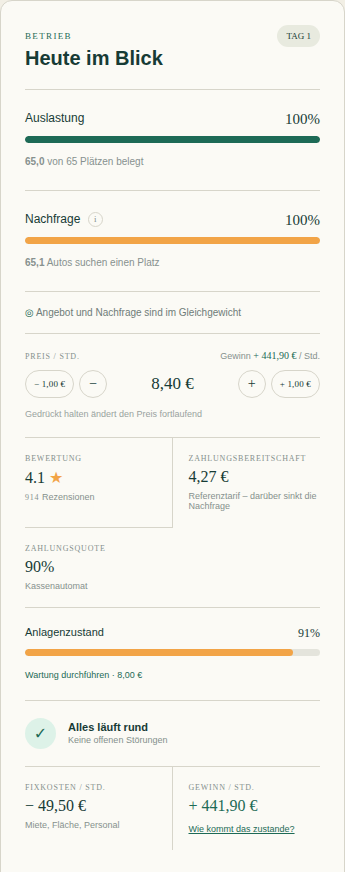
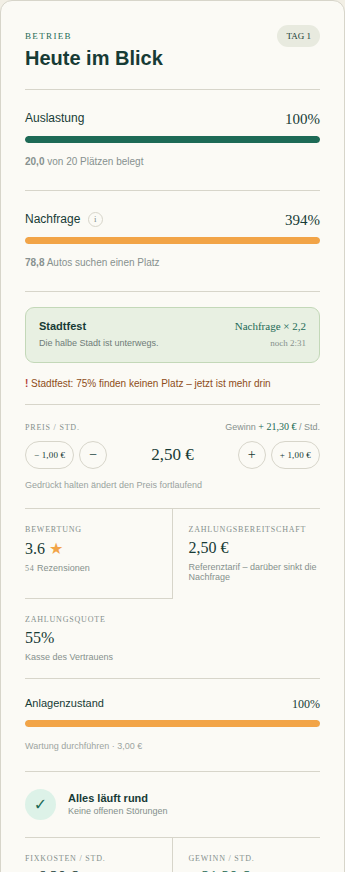
feat: pace the upgrades to the real clock and give the price something to do
Two things made the game dull.

The one-off prices still came from the time when a game hour took thirty
seconds. Against an honest clock they were four to twelve times too
expensive: a patient player bought two upgrades in four hours. They are
now calibrated against the lot's actual takings of about 32 euros an
hour – the first expansion costs two euros, a move twenty-five. Measured
with a normal buying strategy: eleven purchases in the first hour
instead of two, and cheap steps are priced in ten cent increments so the
curve does not flatten out at the bottom.

The second reason was that nothing ever changed on its own. Since the
time of day is gone, the lot sat at its market price forever with no
reason to touch anything. Now events pass through: a town festival or
steady rain lifts the demand for a few minutes, roadworks or a new
competitor next door cut it. Each is announced with its effect and a
countdown, so the answer is a deliberate price change instead of a
surprise – raising the tariff by 1,50 euros during rain took the profit
from 21 to 38 euros an hour in the browser.

Events survive a reload and keep ticking during a short absence rather
than vanishing.

Claude-Session: https://claude.ai/code/session_01AV2HkyX3fmLVfAK2ZyCouS

diff --git a/src/game.ts b/src/game.ts
@@ -16,7 +16,19 @@ export interface GameState {
   condition: number;
   activeIncident: Incident | null;
   incidentCooldown: number;
+  activeEvent: DemandEvent | null;
+  eventCooldown: number;
   lastSavedAt: number;
+}
+
+/** A passing reason for more or fewer guests – announced and time boxed. */
+export interface DemandEvent {
+  id: string;
+  title: string;
+  description: string;
+  /** Multiplier on the demand while it lasts. */
+  factor: number;
+  secondsLeft: number;
 }
 
 export interface Incident {
@@ -64,13 +76,13 @@ export const LOCATIONS = [
 ];
 
 export const upgrades: Upgrade[] = [
-  { id: 'location', name: 'Standort verlegen', description: 'Ein besserer Standort bringt deutlich mehr Basis-Nachfrage – und mehr Miete', icon: '⚑', category: 'Standort', maxLevel: 3, baseCost: 120, costMultiplier: 8, stages: LOCATIONS.map((location) => location.name) },
-  { id: 'spaces', name: 'Stellplätze bauen', description: '+5 Stellplätze – mehr Angebot für die Nachfrage', icon: 'P', category: 'Kapazität', maxLevel: null, baseCost: 10, costMultiplier: 1.12 },
-  { id: 'lighting', name: 'LED-Beleuchtung', description: 'Sicheres Gefühl bei Nacht – mehr Nachfrage', icon: '✦', category: 'Nachfrage', maxLevel: 3, baseCost: 30, costMultiplier: 2.2 },
-  { id: 'cleaning', name: 'Reinigungsdienst', description: 'Saubere Flächen und Toiletten – mehr Nachfrage', icon: '◆', category: 'Nachfrage', maxLevel: 3, baseCost: 45, costMultiplier: 2.2 },
-  { id: 'advertising', name: 'Werbung', description: 'Mehr Menschen am Standort kennen deinen Parkplatz', icon: '▲', category: 'Nachfrage', maxLevel: 5, baseCost: 40, costMultiplier: 1.9 },
-  { id: 'payment', name: 'Kassensystem', description: 'Weniger Gäste fahren ohne zu zahlen davon', icon: '€', category: 'Erlös', maxLevel: 3, baseCost: 55, costMultiplier: 2.8, stages: PAYMENT_STAGES.map((stage) => stage.name) },
-  { id: 'shelter', name: 'Überdachung', description: 'Trockene Autos – Gäste akzeptieren höhere Tarife', icon: '⌂', category: 'Erlös', maxLevel: 3, baseCost: 90, costMultiplier: 2.5 },
+  { id: 'location', name: 'Standort verlegen', description: 'Ein besserer Standort bringt deutlich mehr Basis-Nachfrage – und mehr Miete', icon: '⚑', category: 'Standort', maxLevel: 3, baseCost: 25, costMultiplier: 9, stages: LOCATIONS.map((location) => location.name) },
+  { id: 'spaces', name: 'Stellplätze bauen', description: '+5 Stellplätze – mehr Angebot für die Nachfrage', icon: 'P', category: 'Kapazität', maxLevel: null, baseCost: 2, costMultiplier: 1.12 },
+  { id: 'lighting', name: 'LED-Beleuchtung', description: 'Sicheres Gefühl bei Nacht – mehr Nachfrage', icon: '✦', category: 'Nachfrage', maxLevel: 3, baseCost: 6, costMultiplier: 2.2 },
+  { id: 'cleaning', name: 'Reinigungsdienst', description: 'Saubere Flächen und Toiletten – mehr Nachfrage', icon: '◆', category: 'Nachfrage', maxLevel: 3, baseCost: 9, costMultiplier: 2.2 },
+  { id: 'advertising', name: 'Werbung', description: 'Mehr Menschen am Standort kennen deinen Parkplatz', icon: '▲', category: 'Nachfrage', maxLevel: 5, baseCost: 8, costMultiplier: 1.9 },
+  { id: 'payment', name: 'Kassensystem', description: 'Weniger Gäste fahren ohne zu zahlen davon', icon: '€', category: 'Erlös', maxLevel: 3, baseCost: 12, costMultiplier: 2.8, stages: PAYMENT_STAGES.map((stage) => stage.name) },
+  { id: 'shelter', name: 'Überdachung', description: 'Trockene Autos – Gäste akzeptieren höhere Tarife', icon: '⌂', category: 'Erlös', maxLevel: 3, baseCost: 18, costMultiplier: 2.5 },
 ];
 
 export const INITIAL_STATE: GameState = {
@@ -86,6 +98,8 @@ export const INITIAL_STATE: GameState = {
   condition: 100,
   activeIncident: null,
   incidentCooldown: 80,
+  activeEvent: null,
+  eventCooldown: 45,
   lastSavedAt: Date.now(),
 };
 
@@ -121,6 +135,7 @@ const clamp = (value: number, min: number, max: number): number => Math.min(max,
 
 export const upgradeCost = (upgrade: Upgrade, level: number): number => {
   const raw = upgrade.baseCost * upgrade.costMultiplier ** level;
+  if (raw < 20) return Math.round(raw * 10) / 10;
   return raw < 100 ? Math.round(raw) : Math.round(raw / 10) * 10;
 };
 
@@ -151,7 +166,8 @@ export const reputationFactor = (state: GameState): number => Math.max(0.25, 0.6
  */
 export const attraction = (state: GameState): number => {
   const incidentPenalty = state.activeIncident && state.activeIncident.id !== 'payment' ? 0.8 : 1;
-  return currentLocation(state).baseDemand * equipmentFactor(state) * incidentPenalty * reputationFactor(state);
+  return currentLocation(state).baseDemand * equipmentFactor(state) * incidentPenalty
+    * reputationFactor(state) * (state.activeEvent?.factor ?? 1);
 };
 
 /** Even a free lot only draws the guests that pass by – the catchment limit. */
@@ -309,10 +325,43 @@ export const earningPower = (state: GameState): number => {
 export const repairPrice = (state: GameState, minutes: number): number =>
   Math.max(3, Math.round(earningPower(state) * minutes / 60));
 
+/**
+ * Things that happen around the lot and move the demand for a few minutes.
+ * They are announced with their effect and a countdown, so the answer is a
+ * deliberate price change rather than a surprise.
+ */
+const EVENT_KINDS: { id: string; title: string; description: string; factor: number; seconds: number; fromLocation?: number }[] = [
+  { id: 'festival', title: 'Stadtfest', description: 'Die halbe Stadt ist unterwegs.', factor: 2.2, seconds: 180 },
+  { id: 'rain', title: 'Dauerregen', description: 'Wer sonst läuft, fährt heute.', factor: 1.4, seconds: 240 },
+  { id: 'match', title: 'Heimspiel im Stadion', description: 'Alle suchen gleichzeitig einen Platz.', factor: 1.9, seconds: 150 },
+  { id: 'holiday', title: 'Ferienbeginn', description: 'Reisende stellen ihr Auto für Tage ab.', factor: 1.7, seconds: 240, fromLocation: 2 },
+  { id: 'roadworks', title: 'Baustelle vor der Einfahrt', description: 'Die Zufahrt ist halb gesperrt.', factor: 0.55, seconds: 180 },
+  { id: 'competition', title: 'Neuer Parkplatz nebenan', description: 'Die Konkurrenz nimmt dir Gäste ab.', factor: 0.7, seconds: 210 },
+];
+
+/** Events that can happen at the current location. */
+export const possibleEvents = (state: GameState): string[] =>
+  EVENT_KINDS.filter((kind) => (kind.fromLocation ?? 0) <= state.levels.location).map((kind) => kind.id);
+
 /** The one discrete event per real-time second: something breaks, or it doesn't. */
 export const simulateTick = (state: GameState, random = Math.random): GameState => {
   const next: GameState = structuredClone(state);
   next.incidentCooldown -= 1;
+
+  if (next.activeEvent) {
+    next.activeEvent.secondsLeft -= 1;
+    if (next.activeEvent.secondsLeft <= 0) {
+      next.activeEvent = null;
+      next.eventCooldown = 90 + Math.floor(random() * 150);
+    }
+  } else {
+    next.eventCooldown -= 1;
+    if (next.eventCooldown <= 0) {
+      const candidates = EVENT_KINDS.filter((kind) => (kind.fromLocation ?? 0) <= next.levels.location);
+      const kind = candidates[Math.floor(random() * candidates.length)] ?? candidates[0];
+      next.activeEvent = { id: kind.id, title: kind.title, description: kind.description, factor: kind.factor, secondsLeft: kind.seconds };
+    }
+  }
 
   if (!next.activeIncident && next.incidentCooldown <= 0 && next.condition < 92 && random() < 0.018) {
     const candidates = INCIDENT_KINDS.filter((kind) => !kind.requires || next.levels[kind.requires] > 0);
@@ -408,6 +457,15 @@ export const simulateAway = (state: GameState, realMinutes: number): AwayReport 
   const earned = revenue - costs;
 
   const next = structuredClone(state);
+  // A running event keeps ticking while you are gone instead of vanishing on
+  // every reload; nobody was there to react to it either way.
+  if (next.activeEvent) {
+    next.activeEvent.secondsLeft -= minutes * 60;
+    if (next.activeEvent.secondsLeft <= 0) {
+      next.activeEvent = null;
+      next.eventCooldown = 45;
+    }
+  }
   next.cash = Math.max(0, next.cash + earned);
   next.lifetimeRevenue += revenue;
   next.carsServed += filled * next.spaces * gameHours / AVERAGE_STAY_HOURS;

diff --git a/src/main.ts b/src/main.ts
@@ -81,9 +81,14 @@ const goal = (game: GameState): { title: string; progress: number; hint: string 
   };
 };
 
+const countdown = (seconds: number): string =>
+  `${Math.floor(Math.max(0, seconds) / 60)}:${String(Math.max(0, Math.round(seconds % 60))).padStart(2, '0')}`;
+
 /** Tells the player whether supply or demand is the current bottleneck. */
 const marketHint = (game: GameState): string => {
   const turnedAway = turnedAwayShare(game);
+  if (game.activeEvent && game.activeEvent.factor >= 1 && turnedAway > 0.1) return `${game.activeEvent.title}: ${percent(turnedAway * 100)} finden keinen Platz – jetzt ist mehr drin`;
+  if (game.activeEvent && game.activeEvent.factor < 1 && occupancy(game) < 0.8) return `${game.activeEvent.title}: mit einem günstigeren Tarif bleibt der Platz voll`;
   if (turnedAway > 0.15) return `${percent(turnedAway * 100)} der Gäste finden keinen Platz – du kannst mehr verlangen oder ausbauen`;
   if (turnedAway > 0.02) return `Ausgebucht – ${percent(turnedAway * 100)} finden keinen Platz und bewerten schlechter`;
   if (occupancy(game) < 0.65) return 'Viele Plätze bleiben leer – ein günstigerer Tarif holt mehr Gäste';
@@ -161,6 +166,7 @@ const demandModal = (game: GameState): string => {
         <tr><td>Basis-Nachfrage <em>(${currentLocation(game).name})</em></td><td>${cars(currentLocation(game).baseDemand)} Autos</td></tr>
         <tr><td>Bewertung <em>(${game.reputation.toFixed(1)} ★)</em></td><td>× ${percent(reputationFactor(game) * 100)}</td></tr>
         <tr><td>Werbung und Ausstattung</td><td>× ${percent(equipmentFactor(game) * 100)}</td></tr>
+        ${game.activeEvent ? `<tr><td>${game.activeEvent.title} <em>(noch ${countdown(game.activeEvent.secondsLeft)})</em></td><td>× ${percent(game.activeEvent.factor * 100)}</td></tr>` : ''}
         <tr><td>Preis <em>(${money(game.price)} gegen ${money(willingnessToPay(game))} Zahlungsbereitschaft)</em></td><td>× ${percent(priceFactor * 100)}</td></tr>
         <tr class="sum"><td>Autos, die parken wollen</td><td>${cars(wanted)}</td></tr>
         <tr class="section"><th colspan="2">Auf ${game.spaces} ${game.spaces === 1 ? 'Stellplatz' : 'Stellplätzen'}</th></tr>
@@ -210,7 +216,7 @@ const focusedSelector = (): string | null => {
  */
 const structureKey = (): string => [
   state.spaces, state.day, selectedCategory, muted, askReset, showProfitModal, showDemandModal, awayReport !== null,
-  state.activeIncident?.id ?? '-', state.price <= 0, occupiedSpaces(state),
+  state.activeIncident?.id ?? '-', state.activeEvent?.id ?? '-', state.price <= 0, occupiedSpaces(state),
   Object.values(state.levels).join(','),
   // Buttons flip between enabled and disabled as the cash passes their price.
   upgrades.map((upgrade) => state.cash >= upgradeCost(upgrade, state.levels[upgrade.id])).join(''),
@@ -287,6 +293,10 @@ const render = (): void => {
           <div class="panel-title"><div><span class="eyebrow">BETRIEB</span><h2>Heute im Blick</h2></div><span class="day-pill">TAG ${state.day}</span></div>
           <div class="metric"><div><span>Auslastung</span><strong data-live="occupancy">${percent(filled)}</strong></div><div class="progress"><i data-live="occupancy-bar" style="width:${filled}%"></i></div><small><b data-live="capacity">${cars(occupancy(state) * state.spaces)}</b> von ${state.spaces} ${state.spaces === 1 ? 'Platz' : 'Plätzen'} belegt</small></div>
           <div class="metric"><div><span>Nachfrage <button class="info-button" data-action="explain-demand" aria-haspopup="dialog" aria-label="Wie entsteht die Nachfrage?">i</button></span><strong data-live="demand">${percent(demandShare)}</strong></div><div class="progress ${demandShare > 100 ? 'amber' : ''}"><i data-live="demand-bar" style="width:${Math.min(100, demandShare)}%"></i></div><small><b data-live="demand-cars">${cars(wanted)}</b> Autos suchen einen Platz</small></div>
+          ${state.activeEvent ? `<div class="event ${state.activeEvent.factor >= 1 ? 'good' : 'bad'}">
+            <div><strong>${state.activeEvent.title}</strong><small>${state.activeEvent.description}</small></div>
+            <div class="event-effect"><b>Nachfrage ${state.activeEvent.factor >= 1 ? '×' : '×'} ${state.activeEvent.factor.toLocaleString('de-DE')}</b><span data-live="event-time">noch ${countdown(state.activeEvent.secondsLeft)}</span></div>
+          </div>` : ''}
           <div class="market-hint ${turnedAwayShare(state) > 0.02 ? 'tight' : ''}" data-live="market-hint">${marketHint(state)}</div>
           <div class="price-setting">
             <div class="price-head"><span id="price-label">PREIS / STD.</span><small>Gewinn <b class="${loss ? 'negative' : 'positive'}" data-live="rate">${rate(state)}</b> / Std.</small></div>
@@ -478,6 +488,7 @@ const renderLiveValues = (): void => {
     demandBar.parentElement?.classList.toggle('amber', demandShare > 100);
   }
 
+  if (state.activeEvent) setLive('event-time', `noch ${countdown(state.activeEvent.secondsLeft)}`);
   setLive('price', money(state.price));
   setLive('maintenance', money(maintenanceCost(state)));
   setLive('reviews', String(Math.max(4, Math.floor(state.carsServed) + 14)));

diff --git a/src/game.test.ts b/src/game.test.ts
@@ -20,6 +20,7 @@ import {
   SPACES_PER_UPGRADE,
   paymentRate,
   paymentStage,
+  possibleEvents,
   possibleIncidents,
   performMaintenance,
   PRICE_STEP,
@@ -282,10 +283,10 @@ describe('upgrades', () => {
     expect(buyUpgrade(state, 'advertising')).toBe(state);
   });
 
-  it('rounds small costs to euros and large ones to tens', () => {
-    expect(upgradeCost(spaceUpgrade, 0)).toBe(10);
-    expect(upgradeCost(spaceUpgrade, 1)).toBe(11);
-    expect(upgradeCost(spaceUpgrade, 30) % 10).toBe(0);
+  it('rounds cheap steps finely and expensive ones coarsely', () => {
+    expect(upgradeCost(spaceUpgrade, 0)).toBe(2);
+    expect(upgradeCost(spaceUpgrade, 1)).toBeCloseTo(2.2, 6);
+    expect(upgradeCost(spaceUpgrade, 40) % 10).toBe(0);
   });
 });
 
@@ -400,6 +401,39 @@ describe('incidents only hit what exists', () => {
     expect(maintenanceCost(bigger)).toBe(Math.round(earningPower(bigger) / 60));
     // Never a fortune: well below an hour of what the lot takes in.
     expect(maintenanceCost(base)).toBeLessThan(earningPower(base));
+  });
+});
+
+describe('events', () => {
+  it('starts an event after the cooldown and lifts the demand while it lasts', () => {
+    const state = { ...freshState(), eventCooldown: 1 };
+    const started = simulateTick(state, () => 0);
+    expect(started.activeEvent).not.toBeNull();
+    expect(demand(started)).not.toBeCloseTo(demand(state), 6);
+    expect(started.activeEvent!.secondsLeft).toBeGreaterThan(60);
+  });
+
+  it('counts the event down and clears it when it is over', () => {
+    let state = { ...freshState(), eventCooldown: 1 };
+    state = simulateTick(state, () => 0);
+    const seconds = state.activeEvent!.secondsLeft;
+    for (let tick = 0; tick < seconds; tick += 1) state = simulateTick(state, () => 0.99);
+    expect(state.activeEvent).toBeNull();
+    expect(state.eventCooldown).toBeGreaterThan(0);
+    expect(demand(state)).toBeCloseTo(demand(freshState()), 6);
+  });
+
+  it('keeps location-bound events for their location', () => {
+    expect(possibleEvents(freshState())).not.toContain('holiday');
+    expect(possibleEvents(withLevel(freshState(), 'location', 2))).toContain('holiday');
+  });
+
+  it('keeps a running event over a reload and expires it over a long absence', () => {
+    const running = simulateTick({ ...freshState(), eventCooldown: 1 }, () => 0);
+    // Reloading the page must not swallow the event.
+    expect(simulateAway(running, 0).state.activeEvent).not.toBeNull();
+    expect(simulateAway(running, 0.5).state.activeEvent!.secondsLeft).toBeLessThan(running.activeEvent!.secondsLeft);
+    expect(simulateAway(running, 90).state.activeEvent).toBeNull();
   });
 });
 

diff --git a/src/styles.scss b/src/styles.scss
@@ -53,6 +53,11 @@ main { max-width: 1440px; margin: 0 auto; padding: 42px 28px 70px; }
 .info-button { border: 1px solid $line; background: transparent; color: #85908d; width: 15px; height: 15px; border-radius: 50%; font: 500 9px 'DM Mono'; line-height: 1; padding: 0; margin-left: 4px; cursor: pointer; vertical-align: 1px; &:hover { background: $ink; border-color: $ink; color: white; } }
 .metric { padding: 21px 0; border-bottom: 1px solid $line; > div:first-child, .condition > div:first-child { display: flex; justify-content: space-between; font-size: 12px; } strong { font: 500 15px 'DM Mono'; } small { color: #87918f; font-size: 10px; } }
 .progress { height: 7px; border-radius: 9px; background: #e4e4dc; overflow: hidden; margin: 8px 0; i { display: block; height: 100%; background: $green; border-radius: inherit; } &.amber i { background: $orange; } &.dark { height: 5px; i { background: $ink; } } }
+.event { display: flex; align-items: center; justify-content: space-between; gap: 10px; padding: 12px 13px; margin-top: 15px; border-radius: 9px; background: #e8f0e2; border: 1px solid #c3d8b8;
+  strong { display: block; font-size: 11px; } small { font-size: 9px; color: #6f7c78; }
+  .event-effect { text-align: right; white-space: nowrap; b { display: block; font: 500 11px 'DM Mono'; color: $green; } span { font: 500 9px 'DM Mono'; color: #86918d; } }
+  &.bad { background: #f7ece4; border-color: #e3c9b4; .event-effect b { color: #a8623a; } }
+}
 .market-hint { padding: 13px 0; border-bottom: 1px solid $line; font-size: 10px; line-height: 1.5; color: #6f7c78; &::before { content: '◎ '; color: $green; } &.tight { color: #8e4d19; &::before { content: '! '; color: #b3413a; font-weight: 700; } } }
 .quick-stats.bottom { border-bottom: 0; .text-button { font-size: 9px; text-decoration: underline; } }
 .quick-stats { display: grid; grid-template-columns: 1fr 1fr; border-bottom: 1px solid $line; > div { padding: 16px 0; display: flex; flex-direction: column; min-width: 0; &:nth-child(odd) { border-right: 1px solid $line; padding-right: 14px; } &:nth-child(even) { padding-left: 16px; } &:nth-child(n+3) { border-top: 1px solid $line; } &:last-child:nth-child(odd) { border-right: 0; } } span { font: 500 8px 'DM Mono'; color: #85908d; letter-spacing: .1em; } strong { font: 500 16px 'DM Mono'; margin: 5px 0; } b { font-weight: 500; } small { font-size: 9px; color: #86918d; } em { color: $orange; font-style: normal; } }

diff --git a/src/storage.ts b/src/storage.ts
@@ -1,4 +1,4 @@
-import { AwayReport, calculateOfflineProgress, GameState, INITIAL_STATE, Incident, IncidentId, UpgradeId } from './game';
+import { AwayReport, calculateOfflineProgress, DemandEvent, GameState, INITIAL_STATE, Incident, IncidentId, UpgradeId } from './game';
 
 const SAVE_KEY = 'parking-empire-save-v1';
 
@@ -30,6 +30,7 @@ const migrate = (raw: Record<string, unknown>): GameState => {
     if (id in levels) levels[id] = Math.max(levels[id], Math.max(0, Math.round(number(value, 0))));
   }
 
+  const storedEvent = raw.activeEvent as DemandEvent | null | undefined;
   const storedIncident = raw.activeIncident as Incident | null | undefined;
   const activeIncident = storedIncident && INCIDENT_IDS.includes(storedIncident.id) ? storedIncident : null;
 
@@ -46,6 +47,9 @@ const migrate = (raw: Record<string, unknown>): GameState => {
     condition: Math.min(100, Math.max(20, number(raw.condition, base.condition))),
     activeIncident,
     incidentCooldown: number(raw.incidentCooldown, base.incidentCooldown),
+    // A stored event is only kept while it still has time on the clock.
+    activeEvent: storedEvent && number(storedEvent.secondsLeft, 0) > 0 ? storedEvent : null,
+    eventCooldown: number(raw.eventCooldown, base.eventCooldown),
     lastSavedAt: number(raw.lastSavedAt, Date.now()),
   };
 };
